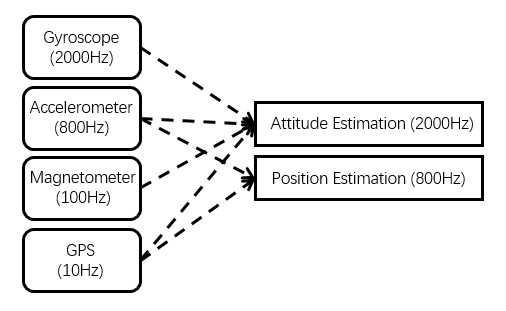
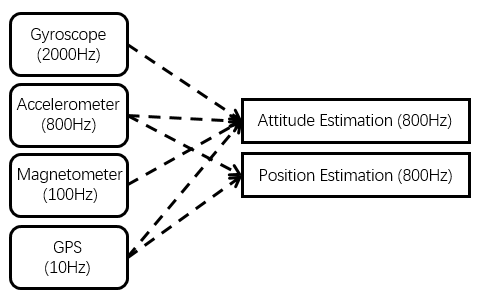
framework complete

diff --git a/main.tex b/main.tex
@@ -156,16 +156,9 @@
 \subparagraph{测试 test。}
 测试 test\cite{woerdelun2012jingji}。
 
-%\gdutchapter{传感器校准}{Sensor calibration}
-%
-%\gdutsection{加速度计校准}{Accelerometer calibration}
-
-%\gdutchapter{状态估计}{State estimation}
-
 \gdutchapter{传感器融合}{Sensor fusion}
-本章介绍了我们开发的一种适用于多旋翼飞行器的传感器融合算法，使用imu作为主要传感器。我们感兴趣的是在飞行器平台上运行的状态估计算法，这种应用场景对于传感器融合有不一样的要求。因此，我们针对这些系统需求处理传感器融合、异常处理等问题。\par
+本章介绍了我们开发的一种适用于多旋翼飞行器的传感器融合算法，使用IMU作为主要传感器。我们感兴趣的是在飞行器平台上运行的状态估计算法，这种应用场景对于传感器融合有不一样的要求。因此，我们针对这些系统需求处理传感器融合、异常处理等问题。\par
 我们注意到，这个课题已经有很好的研究成果\cite{mahony2008nonlinear,hua2010attitude,khosravian2016state}。我们的工作与现有成果之间的主要区别在于，我们的系统整合了现有成果的方法，具有很强的鲁棒性。我们确保该系统能够在大震动、高机动环境中稳健运行，在这些环境中，依赖单一现有成果的算法是不可行的。我们给出了高机动运行环境下的实验结果，要求系统在一段较长的时间内无故障运行。\par
-在本章中，我们将重点讨论系统中使用的状态估计方法(\autoref{fig:stateestimation})。
 
 \begin{figure}[htbp]
 	\centering
@@ -174,23 +167,174 @@
 	\label{fig:stateestimation}
 \end{figure} 
 
-%\gdutsubsection{卡尔曼滤波}{Kalman filter}
+在本章中，我们将重点讨论系统中使用的状态估计方法(\autoref{fig:stateestimation})。我们将介绍由这些方法支持的系统飞行测试结果。我们注意到，自主飞行需要仔细地集成其他重要模块，如规划、控制和地面站。然而，我们希望将这些模块的集成的讨论放到到第五章，因为它们中的大部分都是对其特定领域中现有结果的直接应用。这些模块作为通用模块，以支持整个系统的运行。
 
-%\gdutsection{校准}{Calibration}
+\gdutsection{姿态估计}{Attitude estimation}
+我们工作的核心是一个可靠的估计模块，该模块使用GPS和低成本的IMU输出姿态。我们注意到，基于磁力计及GPS的偏航角估计较为特殊，因此，基于低成本传感器的特性，我们提出了一种解耦估计器设计。\par
+我们将世界坐标系和机体坐标系中的向量分别定义为$(\cdot)^w$和$(\cdot)^b$。我们感兴趣的是世界坐标系中飞行器的姿态，其定义为$\begin{bmatrix}
+	\phi^w & \theta^w & \psi^w
+\end{bmatrix}$。其中$\psi^w$、$\theta^w$和$\phi^w$是偏航角、俯仰角和横滚角，表示经过ZYX欧拉角转换后从机体坐标系到世界坐标系的旋转。因此，我们有旋转矩阵表示
+\begin{equation}\label{eq:rotationmatrix}
+	R_{b}^{w}=R(\psi^w)R(\theta^w)R(\phi^w)
+\end{equation}\par
+我们使用基于多传感器融合的姿态估计方法来估计三维姿态。一种带延时观测的显式互补滤波器(ECF)将IMU数据与GPS融合，以提供横滚角($\phi^w$)和俯仰角($\theta^w$)的估计。解耦估计器将陀螺仪数据、磁力计数据和GPS融合，以提供偏航角($\psi^w$)的估计。
 
-\gdutchapter{规划}{Planning}
+\gdutsubsection{横滚角、俯仰角估计}{Roll and pitch estimation}
+直接安装在机体的IMU作为横滚角和俯仰角估计的主要信息来源。我们评估了几种基于IMU的姿态估计方法，如基于非线性观测器的方法\cite{mahony2008nonlinear}、基于扩展随机线性估计的方法\cite{sabatelli2012double}和基于粒子滤波的方法\cite{cheng2004particle}。然而，由于飞行器的机动性需要以200Hz以上的更新速率进行姿态估计，而我们有限的板载计算资源，因此我们选择了基于非线性观测器的算法，该算法可以产生鲁棒且低算力的实时姿态估计。我们利用GPS的速度观测\cite{hua2010attitude}来处理飞行器运动状态下的姿态估计问题。 
+
+\gdutsubsection{偏航角估计}{Yaw estimation}
+我们以四元数为状态的CF融合陀螺仪、磁力计和GPS进行偏航角估计。我们通过观测指向磁北的向量以及GPS速度都能得出世界坐标系的偏航角误差。如果磁力计得出的偏航角误差变化太大，通常是由于飞行器外部磁场变化导致的，我们放弃当前的磁力计测量数据，并推迟测量更新，直到获得稳定的测量。在磁场干扰环境下，考虑使用GPS速度数据进行融合。如果没有稳定的偏航角测量值可用，这些测量值增强了系统的鲁棒性。当磁力计数据不可用时，我们使用GPS速度进行短期测量更新，迫使飞行器在小范围进行运动。\par
+后面的小节中将介绍一种更有原则性的方法，将GPS测量值和磁力计测量结合起来，总体提供偏航估计。通过融合两种信息来解决磁场干扰引起的偏航误差修正问题。
+
+\gdutsection{基于ECF的传感器融合}{ECF-based sensor fusion}
+本节介绍了$SO(3)$上非线性互补滤波的一般框架。为了确保输出能满足反馈控制的高频、准确和无漂移的姿态估计，我们使用显式互补滤波器(ECF)融合并将姿态估计频率提高到800Hz。ECF结合10Hz的GPS数据、100Hz的磁力计数据、2000Hz的陀螺仪数据和800Hz的加速度数据，提供800Hz的姿态估计估计(\autoref{fig:stateestimation})。最终的估计输出平均延迟为0.01s，直接反馈到飞行器的反馈控制回路进行姿态控制。
+\par
+姿态估计的目标是为估计量$\hat{R}(t)\in SO(3)$提供一组动力学方程来使得误差旋转矩阵$\widetilde{R}(t)\rightarrow I_3$。真实系统的运动学方程为
+\begin{equation}\label{eq:kinematics}
+	\dot{R}=R\Omega_{\times}=(R\Omega)_{\times}R
+\end{equation}\par
+
+本文的ECF的状态向量定义为
+\begin{equation}\label{eq:statevector}
+	x_{t}=
+\begin{bmatrix}
+	q_{b}^{w} & b
+\end{bmatrix}^T
+\end{equation}
+其中，$q_{b}^{w}=\begin{bmatrix}
+	q_w & q_x & q_y & q_z
+\end{bmatrix}^T$是$t$时刻的姿态四元数，，$b=\begin{bmatrix}
+ b_x & b_y & b_z
+\end{bmatrix}^T$是$t$时刻的陀螺仪零偏。注意，$q_{b}^{w}$表示的是$t$时刻机体坐标系相对于世界坐标系的姿态。$b$表示的是机体坐标系下的陀螺仪零偏。考虑\autoref{eq:kinematics}的旋转运动学方程，则对应的四元数运动学方程为
+\begin{equation}\label{eq:quatkinematics}
+	\dot{q}=\frac{1}{2}q\otimes \mathbf{p}(\Omega)
+\end{equation}\par
+基于IMU的姿态估计首先将加速度计测量值转换为世界坐标系，然后用于测量更新。测量值模型可以写成
+\begin{equation}\label{eq:measurementmodel}
+	a=R^T(\dot{v}-g)+b_a+\mu_a
+\end{equation}
+其中$v$表示机体系相对于世界系的瞬时线性加速度，$\mu_a$为测量噪声。由于姿态测量模型是非线性的，不可以通过卡尔曼更新步骤进行测量更新。因此我们采用非线性滤波器的思路进行设计。\par
+本文使用的ECF后来发展成为基于ECF的多传感器融合框架，以一致的方式将来自磁力计和GPS的信息进行组合。
+
+\gdutsection{位置速度估计}{Position and velocity esitimation}
+我们通过三阶互补滤波算法来解决位置速度估计问题。基于GPS和IMU，我们通过三阶互补滤波算法来修正位置速度误差。位置速度估计算法运行频率为800Hz。为了修正传感器延时引起的修正不一致，我们采用基于延时的算法\cite{khosravian2016state}。\par
+注意，如\autoref{fig:stateestimation}所示，位置速度估计模块和姿态估计模块运行在同一个的进程中，运行频率一样。这样，姿态、速度和位置的延迟能统一对齐。
+
+\gdutsubsection{考虑延时的三阶互补滤波}{Third order complementary filter with sensor delay}
+根据IMU和GPS的数据，我们可以生成平滑准确的三维位置速度，用于飞行器控制。
+
+\gdutsection{实验结果}{Experimental results}
+本章给出了两个实验：(1)与信号良好的GPS/RTK的位置、速度及差分的加速度比较，研究了估计器的性能;(2)飞行器的飞行实验;第1章讨论了实验平台的结构。第四章将介绍控制方法。
+
+\gdutsubsection{评估估计器的性能}{Evaluating estimator performance}
+我们希望通过与真值对比以研究估计器的性能，真值是由厘米级精确度的GPS/RTK系统定义的。本小节的实验分为两部分。第一部分为飞行器飞行时，通过比较板载估计器输出与的GPS/RTK来评估估计的准确性。在本次实验中，估计器能很好地跟上GPS/RTK输出的真值。第二部分考察了使用来自估计器的姿态和速度反馈来维持姿态、速度和位置的反馈控制。
+
+\gdutsubsection{飞行器飞行实验}{UAV flying test}
+
+\gdutsection{总结与讨论}{Summary and discussion}
+在本章中，我们展示了使用IMU作为主要传感器，融合其他传感器进行状态估计以实现飞行器的稳定飞行。关键技术是考虑了传感器延时，运动加速度补偿以及异常处理相关的算法。此外，我们将容易受到磁场干扰的偏航角和俯仰、横滚角解耦以保证系统的鲁棒性。本文提出的算法可以使飞行器保持稳定。
+
+\gdutchapter{传感器校准}{Sensor calibration}
+在本章中，我们研究如何使用较少的仪器来进行高精度的传感器校准以提供更好的传感器数据。一般来说，基于MEMS的传感器的精度都比较差，远远达不到高精度导航的要求。然而，开发基于MEMS的传感器的飞行器，要保证传感器数据精度是很困难的。在本章中，我们研究传感器校准算法，开发了一种不需要外部设备就可以进行较高精度的校准。我们详细介绍了基于优化的传感器校准算法，并将其与融合和控制方法(第4章)结合起来进行实验，以验证系统的性能。\par
+本系统的关键技术是一种传感器校准算法，能够无需外部设备的情况下进行校准。我们要求校准算法能够使用人手就能完成，无需外部设备，在尽量简单的校准流程下保证校准结果的准确性。\par
+
+\gdutsection{加速度计校准}{Acceleromter calibration}
+首先建立加速度计的传感器模型，并利用重力的向量大小进行标定\cite{jekeli2012inertial}。对于加速度计，我们使用静态检测的方法\cite{fong2008methods}，并使用基于方差的检测算法\cite{sabatini2006wavelet}。由于需要提取静止的重力向量，我们可以对原始数据进行静态检测，放宽校准种严格的静止的条件。利用校准后的参数将原始数据转化为标准的重力向量$g$。\par
+我们的检测器基于基于Tedaldi的方法：对于每个加速度计样本$\begin{bmatrix}
+	a^t_x & a^t_y & a^t_z
+\end{bmatrix}$，给定一个长度为t秒的时间间隔时刻，我们计算方差的大小
+\begin{equation}\label{eq:var}
+	\zeta(t)=\sqrt{[var_{t_w}(a^t_x)]^2+[var_{t_w}(a^t_y)]^2+[var_{t_w}(a^t_z)]^2}
+\end{equation}
+其中$var_{t_w}(a^t)$是一个运算符，计算加速度计$a^t$在以$t$为中心，长度为$t_w$秒的时间间隔内的方差。我们通过判断$\zeta(t)$是否小于或大于一个阈值对静态和运动间隔进行分割。与传统的六面校准法相比\cite{尹杭2014一种}，该方法在可以在任意姿态下保持静止。
+
+\gdutsubsection{传感器误差模型}{Sensor error model}
+对于加速度计，有
+\begin{equation}\label{eq:axiserror}
+	T^{a}=
+	\begin{bmatrix}
+		1 & \beta_{yz} & \beta_{zy}\\
+		\beta_{xz} & 1 & \beta_{zx}\\
+		\beta_{xy} & \beta_{yx} & 1
+	\end{bmatrix}
+\end{equation}
+其中，$T^a$是轴正交矩阵，$\beta_{ij}$是第$i$个传感器轴的误差对第$j$个轴的造成的误差影响。\par
+此外，加速度计受到零偏和尺度误差的影响。引入尺度矩阵
+\begin{equation}\label{eq:scaleerror}
+	K^{a}=
+	\begin{bmatrix}
+		s^a_x & 0 & 0\\
+		0 & s^a_y & 0\\
+		0 & 0 & s^a_z
+	\end{bmatrix}
+\end{equation}
+我们接着引入零偏向量
+\begin{equation}\label{eq:scaleerror}
+	b^{a}=
+	\begin{bmatrix}
+		b^a_x\\
+		b^a_y\\
+		b^a_z
+	\end{bmatrix}
+\end{equation}
+完整的传感器误差模型为
+\begin{equation}\label{eq:sensorerrormodel}
+	a^O=T^a K^a (a^S + b^a + \nu^a)
+\end{equation}
+其中，$a^O$和$a^S$分别表示校准后和校准前的加速度数据，$ν^a$是加速度计测量噪声。
+
+\gdutsection{陀螺仪校准}{Gyroscope calibration}
+一般来说，对于陀螺仪校准，要完整校准出零偏、尺度和轴正交要比加速度计校准复杂得多。即使对角速度精度有较高得要求，由于缺乏相应的设备，也无法校准出陀螺仪的尺度和轴正交参数。简单的陀螺校准无法用于高精度的导航上。因此，基于Tedaldi的方法\cite{tedaldi2014robust}，我们将对陀螺仪进行十二参数的标定。
+
+\gdutsection{磁力计校准}{Magnetometer calibration}
+磁力计本身的系统误差非常大，直接用原始数据计算偏航角的精度十分差以至于无法用于控制飞行器的偏航。因此，我们基于椭球拟合的方法来校准磁力计\cite{李勇2012基于椭球拟合的三轴磁传感器误差补偿方法}。我们使用牛顿迭代法求解最小二乘问题，因为代价函数是非线性的。传感器测量模型与章节3.1相同。
+
+\gdutsection{实验结果}{Experimental results}
+实验环境不需要任何外部设备。在所有的实验中，我们只需要采集传感器的原始数据。实验平台在第1章中进行了讨论。实验平台是基于开源飞控。这个现成的飞控板配有一个IMU、一个磁力计和一个STM32微控制器。
+
+\gdutsubsection{加速度计校准结果}{Accelrometer calibration result}
+在本实验中，采集IMU原始数据，使其以任意姿态静止。整个校准流程为3分钟。校准精度是根据重力模长进行评估的。加速度计校准结果显示在。
+
+\gdutsubsection{陀螺仪校准结果}{Gyroscope calibration result}
+这个实验给出陀螺校准结果。陀螺仪和加速度计同时校准。校准精度是根据角度误差来评估的。陀螺仪校准结果显示在。
+
+\gdutsubsection{磁力计校准结果}{Magnetometer calibration result}
+在本实验中，采集磁力计原始数据，以足够多的姿态运动飞控。校准精度根据磁场模长进行评估。磁力计校准结果显示在。
+
+\gdutsection{总结与讨论}{Summary and discussion}
+在本章中，我们提出了一种IMU校准算法，该方法能够在无需外部设备的情况下进行校准。我们对校准评估标准方法的进行优化。我们的方法能够使精度提高到xxx。
 
 \gdutchapter{控制}{Control methods}
+本章讨论如何调整控制方法，以配合飞行器稳定飞行的需要。我们介绍了保证状态估计和控制平滑的系统体系结构。
 
-\gdutsection{PID}{PID}
+\gdutsection{反馈控制}{Feedback control}
+在给定估计的状态后，我们让飞行器用位置跟踪控制器来跟踪所需的轨迹\cite{lee2010geometric}。由传感器融合模块(第二章)的状态估计直接作为控制器的反馈。在本文的设计中，姿态控制器和位置控制器都在STM32以400Hz的频率运行。
+
+\gdutsection{实验结果}{Experimental results}
+我们有一个基于多传感器融合的状态估计器来产生800Hz的位置、速度、姿态估计，足以稳定飞行器。\par
+在这个实验中，飞行器以大约1米/秒的速度自动沿着矩形轨迹生成平滑轨迹。使用GPS/RTK在信号良好的状态下来量化全局跟踪性能。由图xxx可以看出，飞行器的实际位置收敛到期望位置，其标准差为xxx，表明控制器的稳定收敛。
 
 \gdutbackmatter
 \gdutchapter{结论与展望}{Conclusion and prospect}
-\gdutbacksection{研究结论}
-\zhlipsum[1]
+在这篇论文中，我们展示了对飞行器自主飞行的最新技术的贡献，大部分贡献是状态估计算法。在第三章中，我们开发了状态估计系统，提出了一种模块化和可扩展的方法，该方法能够以一致的方式组合来自多个传感器的信息。在第四章中，我们开发了传感器校准算法，能够在没有外部设备的情况下对传感器进行高精度的校准。在第五章中，我们提出的控制方法结合前两章的算法形成一个集成的飞行器系统。\par
+我们注意到，虽然主要的实验平台使用的是四旋翼，但我们的方法不限于这一特定类型的平台。实际上，我们的方法是基于传感器的，同样适用于其他机器人，如固定翼、地面机器人等。
+\gdutbacksection{成果总结}
+综上所述，本文的主要贡献如下：
+\begin{itemize}
+	\item 我们开发了算法和系统，使计算资源受限的飞行器能够自主飞行，只使用低成本的传感器。
+	\item 我们提出了一种算法，通过互补融合来自多传感器的信息来提高系统的可靠性。
+	\item 我们提出了一种算法，无需外部设备就能够进行传感器校准。
+	\item 我们开发集成了控制算法，并通过大量的实验表明，飞行控制系统是稳定可靠的。
+\end{itemize}
 
 \gdutbacksection{未来研究展望}
-\zhlipsum[1]
+本文涉及到了几个有趣的研究领域，其中一些是随着飞行器技术的发展而不断发展成大型系统的，而另一些则是我们在评估最新方法的性能时值得追求的新方向。
+\paragraph{自主飞行中估计与控制的耦合设计。}
+在我们目前的工作中，控制器与估计器是分开设计的。然而，随着我们朝着高速自主飞行的方向发展，我们可能会要求估计器和控制器耦合设计，以生成和执行高效、无碰撞和安全的飞行轨迹。
+\paragraph{用于飞行器的新的传感器技术。}
+虽然传统的传感器如IMU、GPS、相机已被证明可用于飞行器导航，但最近传感技术的发展可能创造新的机会。例如，光场可以作为深度感知的传感器。这些新型传感技术在飞行器上的应用具有很大的潜力。
+\paragraph{传感器和能观性研究。}
+众所周知，传感器数量越多，系统的能观性越好，但单个传感器对系统能观性的影响尚不清楚。增加更多的传感器会带来出更多的能观性，但是传感器提供的信息以及信息的质量会导致能观性的复杂判断条件。因此，一个能够以在线方式识别能观性的通用框架将有利于更高层次的任务，如运动规划和风险评估。
 
 \nocite{*}% 列出全部参考文献
 \printbibliography
